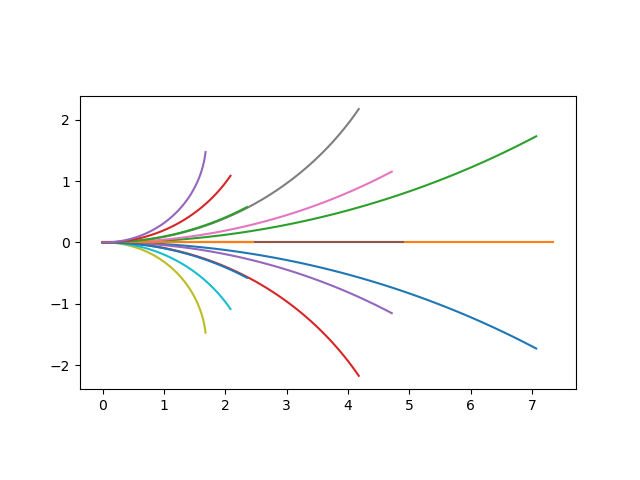
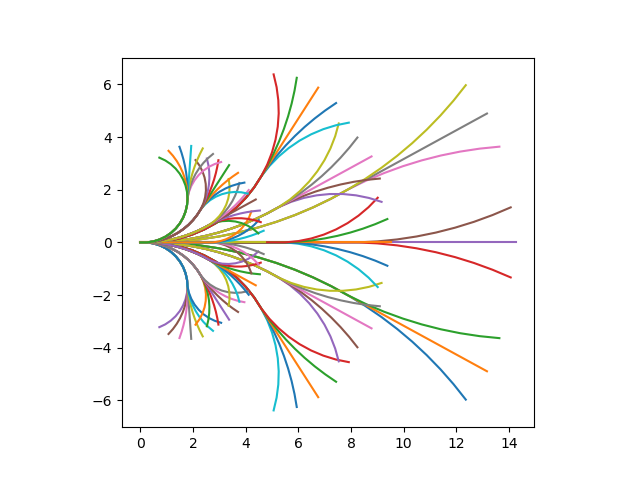
Added second recursion to ladder planner. Added status pub to FSM, trajectory planner.

diff --git a/src/planning/trajectory_planning/trajectory_planning/planner.py b/src/planning/trajectory_planning/trajectory_planning/planner.py
@@ -56,8 +56,6 @@ class PlannerNode(Node):
 
         self.setUpParameters()
 
-        self.generateCandidates()
-
         self.create_subscription(String, "planning/plan_json", self.planCb, 1)
         self.create_subscription(Twist, "/cmd_vel/teleop", self.teleopTwistCb, 1)
         self.create_subscription(OccupancyGrid, "/cost/total", self.totalCostCb, 1)
@@ -74,6 +72,8 @@ class PlannerNode(Node):
             TrajectoryCandidates, "/planning/candidates", 1
         )
         self.status_pub = self.create_publisher(DiagnosticStatus, "/diagnostics", 1)
+
+        self.generateCandidates()
 
         self.tf_buffer = Buffer()
         self.tf_listener = TransformListener(self.tf_buffer, self)
@@ -121,10 +121,7 @@ class PlannerNode(Node):
         self.total_cost_map = arr
         self.grid_info = msg.info
 
-    def generateCandidates(self, top_speed=1.5):
-
-        dt = 0.1  # sec
-        time_horizon = 5.0  # sec
+    def generateCandidates(self, top_speed=1.5, time_horizon=5.0, dt=0.5):
 
         # Start with top speed
         trajectories = []
@@ -133,6 +130,7 @@ class PlannerNode(Node):
         v = top_speed
         Omega = np.linspace(-0.1, 0.1, 3)
         candidates_at_speed = []
+        mega_mask = np.zeros((100, 100))
         for omega in Omega:
             pose = np.zeros(4)  # Start at ego position, zero speed, zero (relative) yaw
             trajectory = []
@@ -144,13 +142,25 @@ class PlannerNode(Node):
                 pose[2] += omega * dt
                 pose[3] = t + dt
 
-            trajectory = np.asarray(trajectory)
-            trajectories.append(trajectory)
-            candidate = Candidate(v, omega, trajectory)
-            mask = self.getCandidateMask(candidate)
-            candidates_at_speed.append([omega, mask])
-            # plt.imshow(mask, extent=[-8, 12, -10, 10])
-            # plt.show()
+            for second_omega in Omega:
+                second_trajectory = trajectory.copy()
+                second_pose = pose.copy()
+
+                for t in np.arange(0, time_horizon, dt):
+                    second_trajectory.append(second_pose.copy())
+                    second_pose[0] += v * math.cos(second_pose[2]) * dt
+                    second_pose[1] += v * math.sin(second_pose[2]) * dt
+                    second_pose[2] += second_omega * dt
+                    second_pose[3] = t + dt
+
+                second_trajectory = np.asarray(second_trajectory)
+                trajectories.append(second_trajectory)
+                candidate = Candidate(v, omega, second_trajectory)
+                mask = self.getCandidateMask(candidate)
+                candidates_at_speed.append([omega, mask])
+                mega_mask = np.logical_or(mega_mask, mask)
+        # plt.imshow(mega_mask, extent=[-8, 12, -10, 10])
+        # plt.show()
 
         candidates.append([v, candidates_at_speed])
 
@@ -169,17 +179,35 @@ class PlannerNode(Node):
                 pose[2] += omega * dt
                 pose[3] = t + dt
 
-            trajectory = np.asarray(trajectory)
-            trajectories.append(trajectory)
-            candidate = Candidate(v, omega, trajectory)
-            mask = self.getCandidateMask(candidate)
-            candidates_at_speed.append([omega, mask])
+            for second_omega in Omega:
+                second_trajectory = trajectory.copy()
+                second_pose = pose.copy()
+
+                for t in np.arange(0, time_horizon, dt):
+                    second_trajectory.append(second_pose.copy())
+                    second_pose[0] += v * math.cos(second_pose[2]) * dt
+                    second_pose[1] += v * math.sin(second_pose[2]) * dt
+                    second_pose[2] += second_omega * dt
+                    second_pose[3] = t + dt
+
+                second_trajectory = np.asarray(second_trajectory)
+                trajectories.append(second_trajectory)
+                candidate = Candidate(v, omega, second_trajectory)
+                mask = self.getCandidateMask(candidate)
+                candidates_at_speed.append([omega, mask])
+                mega_mask = np.logical_or(mega_mask, mask)
+
             # plt.imshow(mask, extent=[-8, 12, -10, 10])
             # plt.show()
+
+        # plt.imshow(mega_mask, extent=[-8, 12, -10, 10])
+        # plt.show()
 
         candidates.append([v, candidates_at_speed])
 
         # Now low speed
+        mega_mask = np.zeros((100, 100))
+
         v = top_speed * 0.333
         Omega = np.linspace(-0.3, 0.3, 7)
         candidates_at_speed = []
@@ -194,20 +222,66 @@ class PlannerNode(Node):
                 pose[2] += omega * dt
                 pose[3] = t + dt
 
-            trajectory = np.asarray(trajectory)
-            trajectories.append(trajectory)
-            candidate = Candidate(v, omega, trajectory)
-            mask = self.getCandidateMask(candidate)
-            candidates_at_speed.append([omega, mask])
-            # plt.imshow(mask, extent=[-8, 12, -10, 10])
-            # plt.show()
+            for second_omega in Omega:
+                second_trajectory = trajectory.copy()
+                second_pose = pose.copy()
+
+                for t in np.arange(0, time_horizon, dt):
+                    second_trajectory.append(second_pose.copy())
+                    second_pose[0] += v * math.cos(second_pose[2]) * dt
+                    second_pose[1] += v * math.sin(second_pose[2]) * dt
+                    second_pose[2] += second_omega * dt
+                    second_pose[3] = t + dt
+
+                second_trajectory = np.asarray(second_trajectory)
+                trajectories.append(second_trajectory)
+                candidate = Candidate(v, omega, second_trajectory)
+                mask = self.getCandidateMask(candidate)
+                candidates_at_speed.append([omega, mask])
+                mega_mask = np.logical_or(mega_mask, mask)
+
+        # plt.imshow(mega_mask, extent=[-8, 12, -10, 10])
+        # plt.show()
 
         candidates.append([v, candidates_at_speed])
 
         plt.figure()
         plt.gca().set_aspect("equal")
 
-        print(candidates)
+        candidates_msg = TrajectoryCandidates()
+
+        index = 0
+
+        for v, candidates_at_speed in candidates:
+
+            for omega, mask in candidates_at_speed:
+                candidate_msg = TrajectoryCandidate()
+                candidate_msg.omega = omega
+                candidate_msg.speed = v
+                trajectory = trajectories[index]
+
+                path_msg = Path()
+
+                stamp = self.get_clock().now().to_msg()
+                for x, y, omega, t in trajectory:
+                    pose_msg = PoseStamped()
+                    pose_msg.pose.position.x = x
+                    pose_msg.pose.position.y = y
+                    pose_msg.header.frame_id = "base_link"
+                    pose_msg.header.stamp = stamp
+
+                    path_msg.poses.append(pose_msg)
+
+                candidate_msg.trajectory = path_msg
+                candidates_msg.candidates.append(candidate_msg)
+
+                print(v, omega, trajectory)
+
+                index += 1
+
+        self.candidates_msg = candidates_msg
+
+        self.candidates_pub.publish(candidates_msg)
 
         for trajectory in trajectories:
             trajectory = np.asarray(trajectory)
@@ -464,6 +538,11 @@ class PlannerNode(Node):
 
     def updateTrajectory(self):
 
+        if self.candidates_msg is not None:
+            self.candidates_pub.publish(self.candidates_msg)
+        else:
+            self.get_logger().warning("No candidates message available.")
+
         if self.current_mode == Mode.STOPPED:
             self.publishStatus("Paused")
             self.twist_pub.publish(Twist())
@@ -547,6 +626,10 @@ class PlannerNode(Node):
 
                 max_cost = np.max(self.total_cost_map[mask])
                 # print(max_cost)
+                # if speed > 0.49 and omega > 0.29:
+                #     plt.imshow(mask)
+                #     plt.title(f"{max_cost}")
+                #     plt.show()
 
                 if max_cost >= 100:
                     print(f"Obst [{speed}, {omega}] had obstacles")

diff --git a/src/planning/behavior/behavior/plan_manager.py b/src/planning/behavior/behavior/plan_manager.py
@@ -154,50 +154,6 @@ class PlanManager(Node):
         self.publishRemainingPlan()
         self.seedling_reached_pub.publish(Empty())
 
-    def checkSeedlingDistance(self):
-        """Periodically check distance from robot to all remaining seedlings.
-        If seedling is close, send signal over ROS topic (for any behavior changes) and update list of remaining seedlings.
-        """
-        try:
-            bl_to_map_tf = self.tf_buffer.lookup_transform(
-                "map", "base_link", rclpy.time.Time()
-            )
-            ego_x = bl_to_map_tf.transform.translation.x
-            ego_y = bl_to_map_tf.transform.translation.y
-            self.ego_pos = [ego_x, ego_y]
-
-        except TransformException as ex:
-            print(f"Could not get transform: {ex}")
-            return
-
-        updated_points = []
-        updated_seedlings = []
-
-        seedling_reached_distance = (
-            self.get_parameter("seedling_reached_distance")
-            .get_parameter_value()
-            .double_value
-        )
-
-        closest_distance = 999999.9
-        for idx, point in enumerate(self.remaining_seedling_points):
-            dist = pdist([point, self.ego_pos])
-
-            if dist < closest_distance:
-                closest_distance = dist
-
-            if dist < seedling_reached_distance:
-                print("SEEDLING REACHED")
-                self.publishRemainingPlan()
-                self.seedling_reached_pub.publish(Empty())
-            else:
-                updated_points.append(point)
-                updated_seedlings.append(self.remaining_seedlings[idx])
-
-        print(f"{closest_distance} away")
-        self.remaining_seedling_points = updated_points
-        self.remaining_seedlings = updated_seedlings
-
     def setUpParameters(self):
         param_desc = ParameterDescriptor()
         param_desc.type = ParameterType.PARAMETER_DOUBLE_ARRAY

diff --git a/src/safety/health/health/monitor.py b/src/safety/health/health/monitor.py
@@ -79,8 +79,15 @@ class HealthMonitor(Node):
                 "TRAJECTORY_PLANNING_FAILURE",
                 inspects=["trajectory_planner"],
                 period_sec=0.2,
-                triggers=SystemwideStatus.TELEOP_ONLY,
-                message="Steward's motion planner is unavailable.",
+                triggers=SystemwideStatus.OUT_OF_SERVICE,
+                message="Motion planner unavailable",
+            ),
+            Check(
+                "BEHAVIOR_FAILURE",
+                inspects=["behavior_fsm"],
+                period_sec=0.2,
+                triggers=SystemwideStatus.OUT_OF_SERVICE,
+                message="Behavior planner unavailable",
             ),
         ]
 
@@ -157,7 +164,6 @@ class HealthMonitor(Node):
                 try:
                     status: DiagnosticStatus = self.statuses[node_name]
                 except KeyError:
-                    is_stale = True
                     continue  # If not, skip
 
                 # Is it current (not stale)?

diff --git a/src/planning/behavior/behavior/fsm.py b/src/planning/behavior/behavior/fsm.py
@@ -45,6 +45,7 @@ class FsmNode(Node):
         self.planting_locked_pub = self.create_publisher(
             Bool, "/behavior/is_planting", 1
         )
+        self.status_pub = self.create_publisher(DiagnosticStatus, "/diagnostics", 1)
 
         self.create_subscription(
             Empty, "/behavior/on_seedling_reached", self.onSeedlingReachedCb, 1
@@ -68,8 +69,15 @@ class FsmNode(Node):
         self.is_planting = True
         self.planting_start_time = time()
 
+    def publishStatus(self, desc: str, level=DiagnosticStatus.OK):
+        self.status_pub.publish(
+            DiagnosticStatus(message=desc, level=level, name=self.get_name())
+        )
+
     def publishCurrentMode(self):
         self.current_mode_pub.publish(Mode(level=self.current_mode))
+
+        self.publishStatus(f"Setting current mode to {self.current_mode}")
 
         if time() - self.planting_start_time > self.PLANTING_DURATION:
             self.is_planting = False

diff --git a/launch/sim.launch.py b/launch/sim.launch.py
@@ -89,7 +89,7 @@ def generate_launch_description():
             plan_manager,
             occ_grid,
             cost_maps,
-            # behavior_fsm,
+            behavior_fsm,
             # trajectory_planner,
             # CONTROL
             # SAFETY
